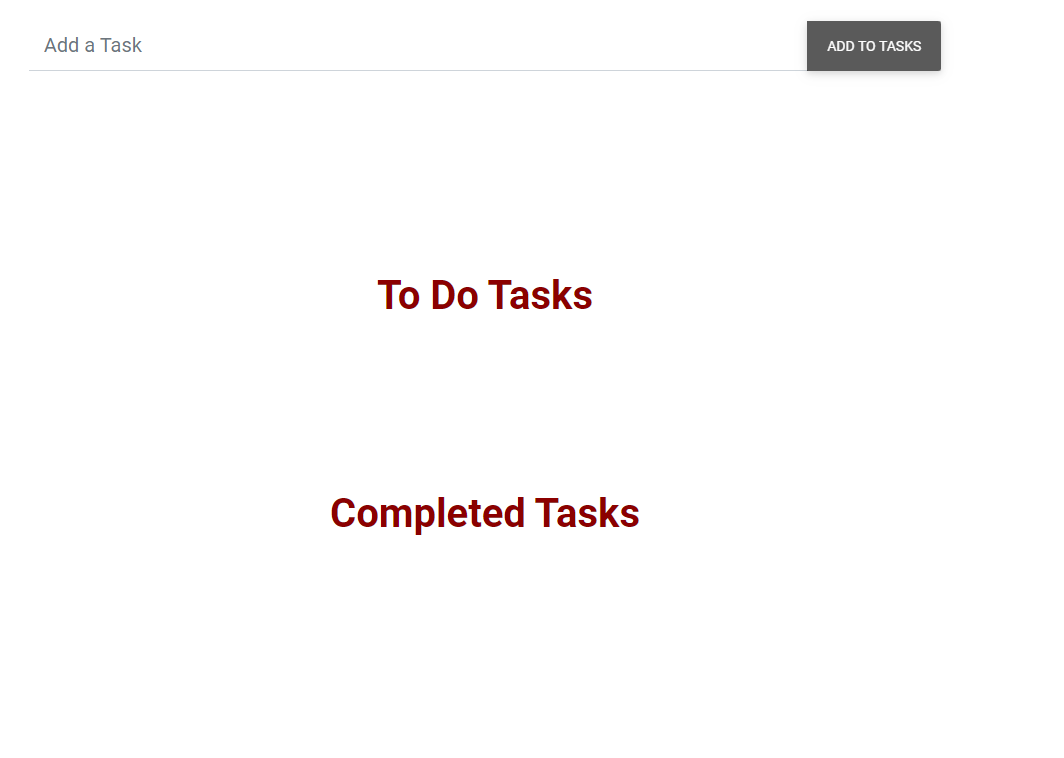
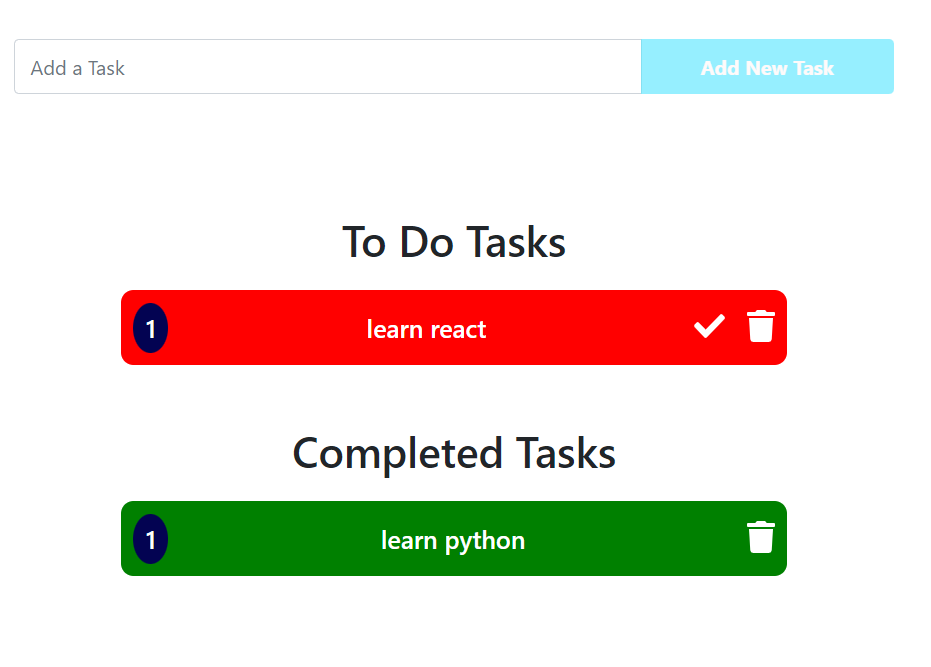
add new project

diff --git a/index.html b/index.html
@@ -61,10 +61,11 @@
                 I am looking forward to shift my career to be a Full Stack developer,to achieve this goal i started with
                 an online front end developement course with Xteam Company from Egypt,
                 througout this course i learned HTML,CSS,<br>Bootstrap,JavaScript and i worked on some dummy projects
-                -which you can find in the project section-, also iam learning React-Js with a Course from Udemy company.
+                -which you can find in the project section-, also iam learning React-Js with a Course from Udemy
+                company.
                 <br>
                 As a next step, iam looking for a practical training in this
-                field , and i hope you can help me to achieve that, so i can realize my dream 
+                field , and i hope you can help me to achieve that, so i can realize my dream
             </p>
 
         </section>
@@ -212,7 +213,7 @@
                                 <img class="card-img-top" src="imgs/Clothes_store.PNG" alt="Card image cap">
                                 <div class="card-body">
                                     <div class="card-text">
-                                        <h5 style="color: black;"> Clothes Store</h5>
+                                        <h5 style="color: black;"> E-Commerce website</h5>
                                         <p>responsive website template suitable for any clothes store made with
                                             html,css,bootstrap and contains some JS functions.</p>
                                     </div>
@@ -237,12 +238,14 @@
                     </div>
                     <div class="col-lg-4 col-md-6 mt-3">
                         <div class="card">
-                            <a href="https://todo-olive-gamma.vercel.app/" target="blank">
+                            <a href="https://todolistapp-e0b8f.web.app/login" target="blank">
                                 <img class="card-img-top" src="imgs/Todo.PNG" alt="Card image cap">
                                 <div class="card-body">
                                     <div class="card-text">
                                         <h5 style="color: black;">To Do List</h5>
-                                        <p>simple To do List App made with html , css and javascript/DOM</p>
+                                        <p>simple To do List App made with react/js, i used react-router,react-redux in
+                                            this app. this app is hosted by firebase which is also used for storing data
+                                        </p>
                                     </div>
                                 </div>
                             </a>
